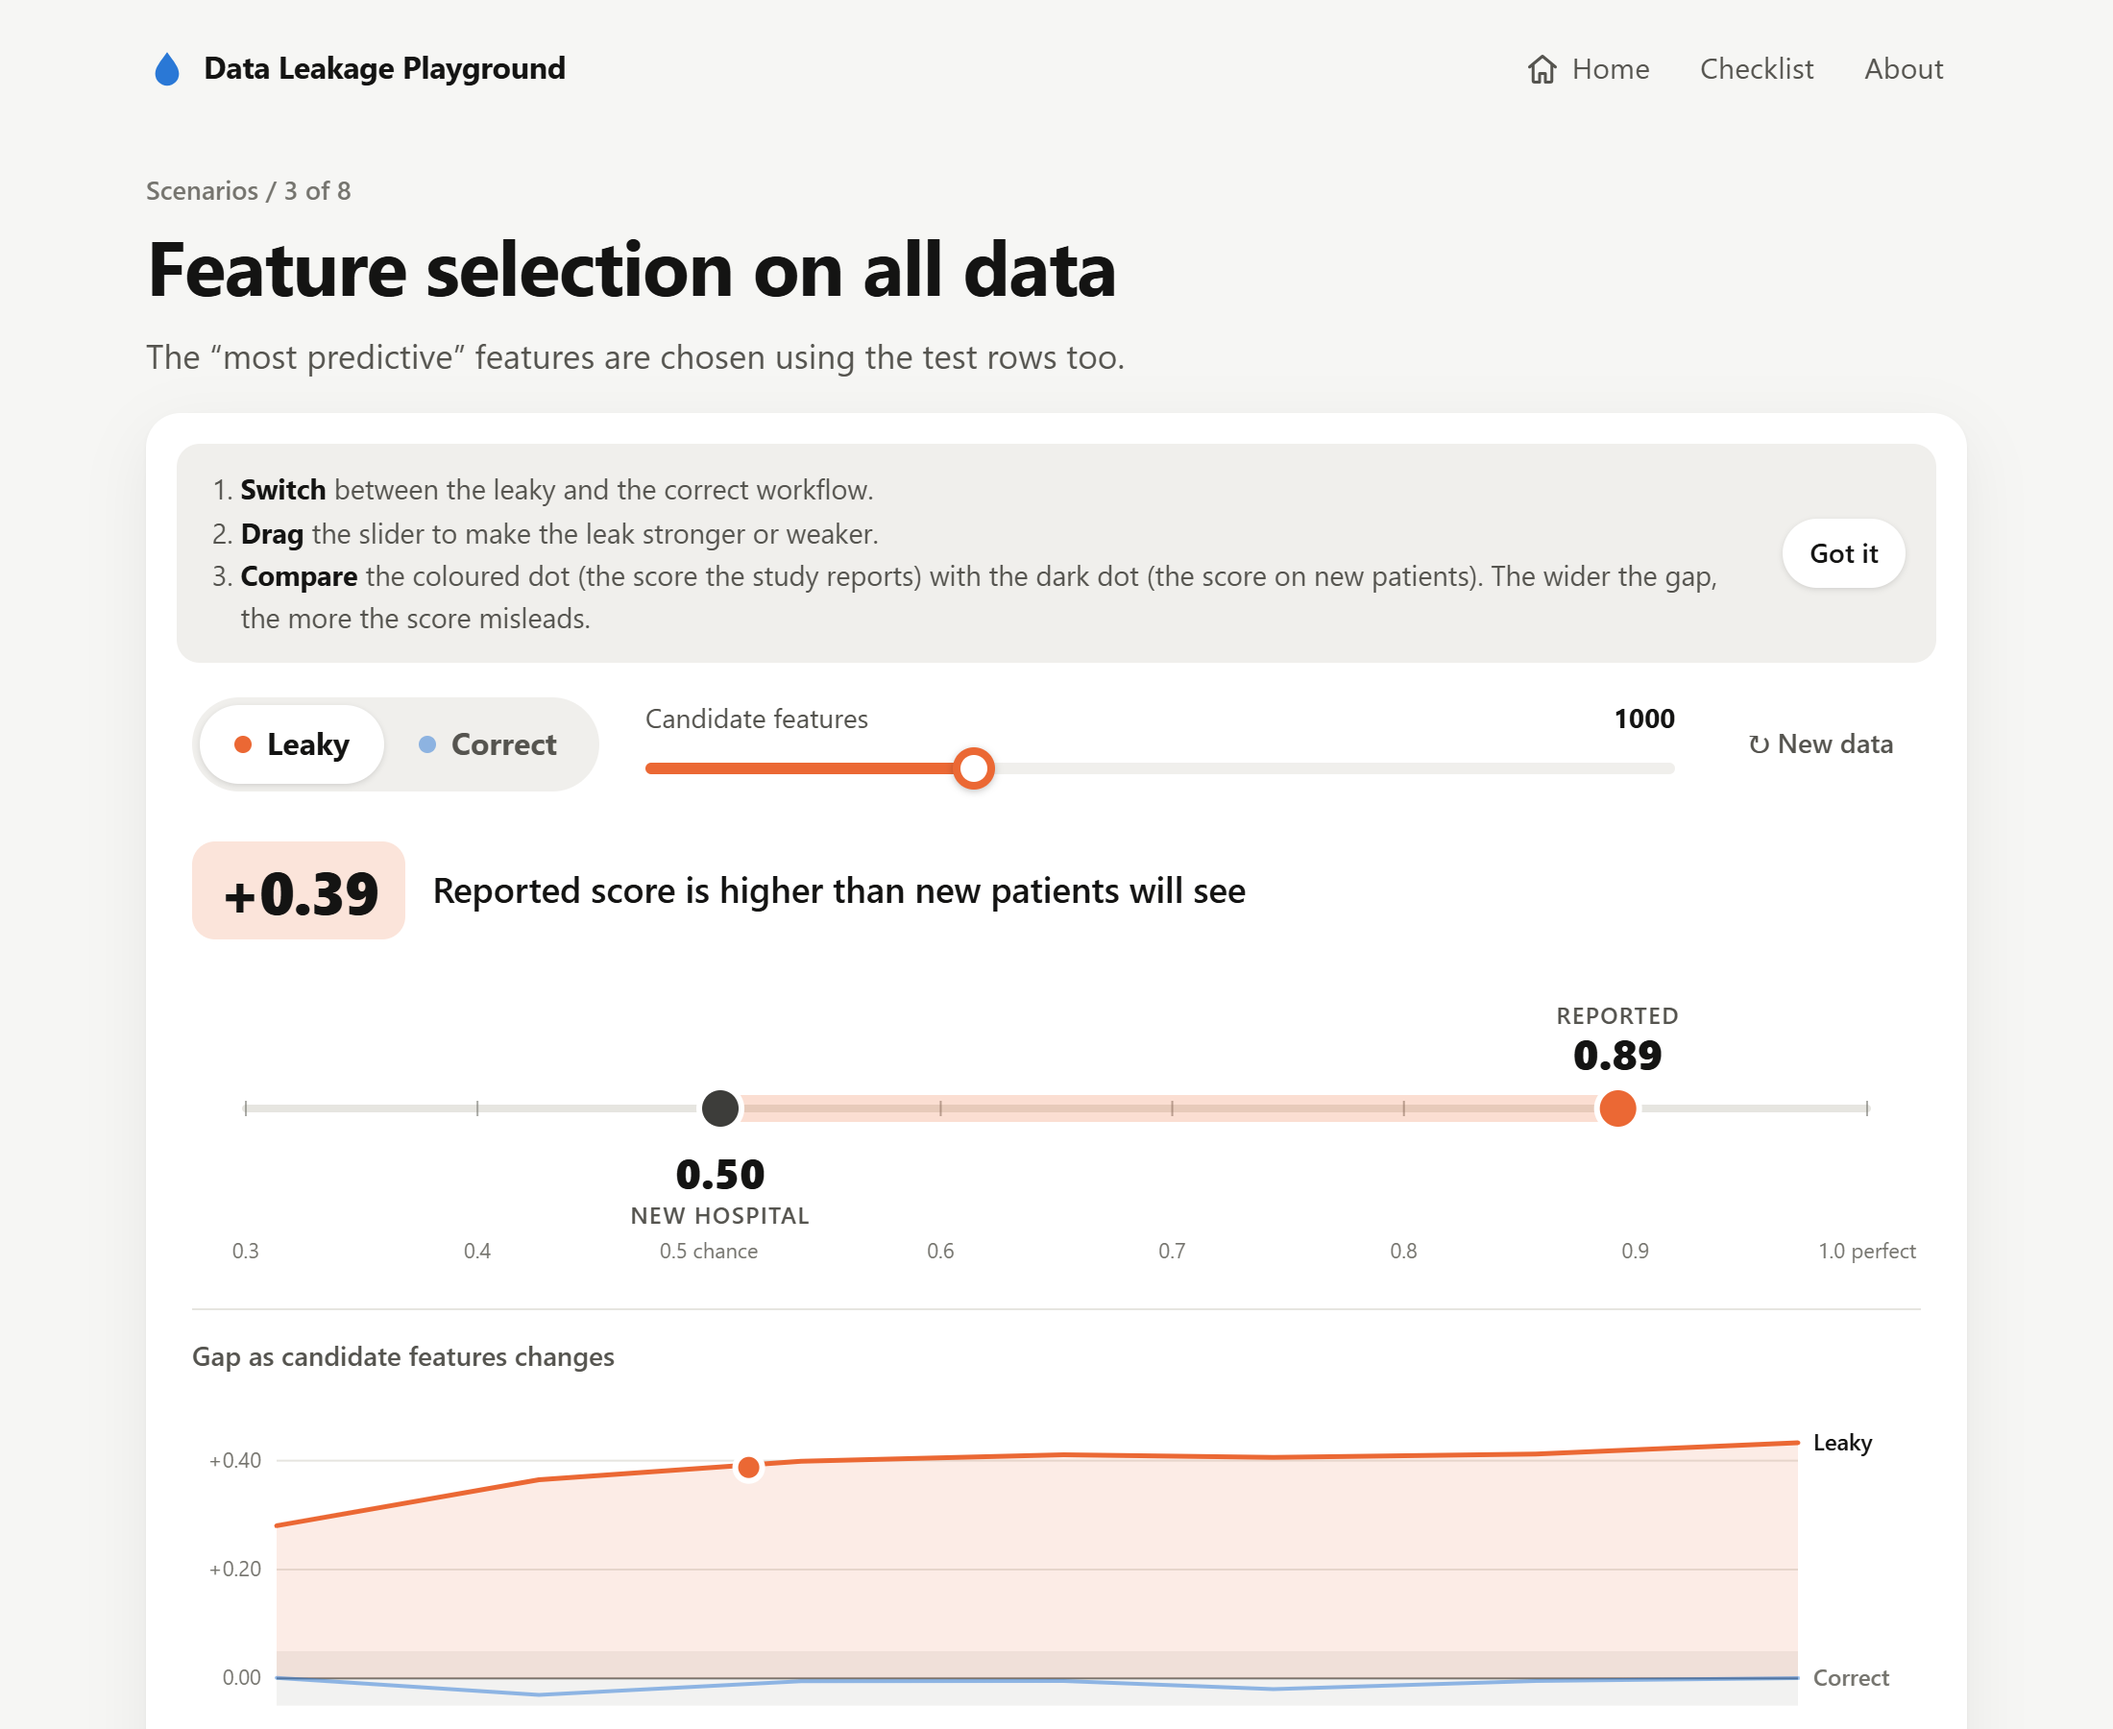
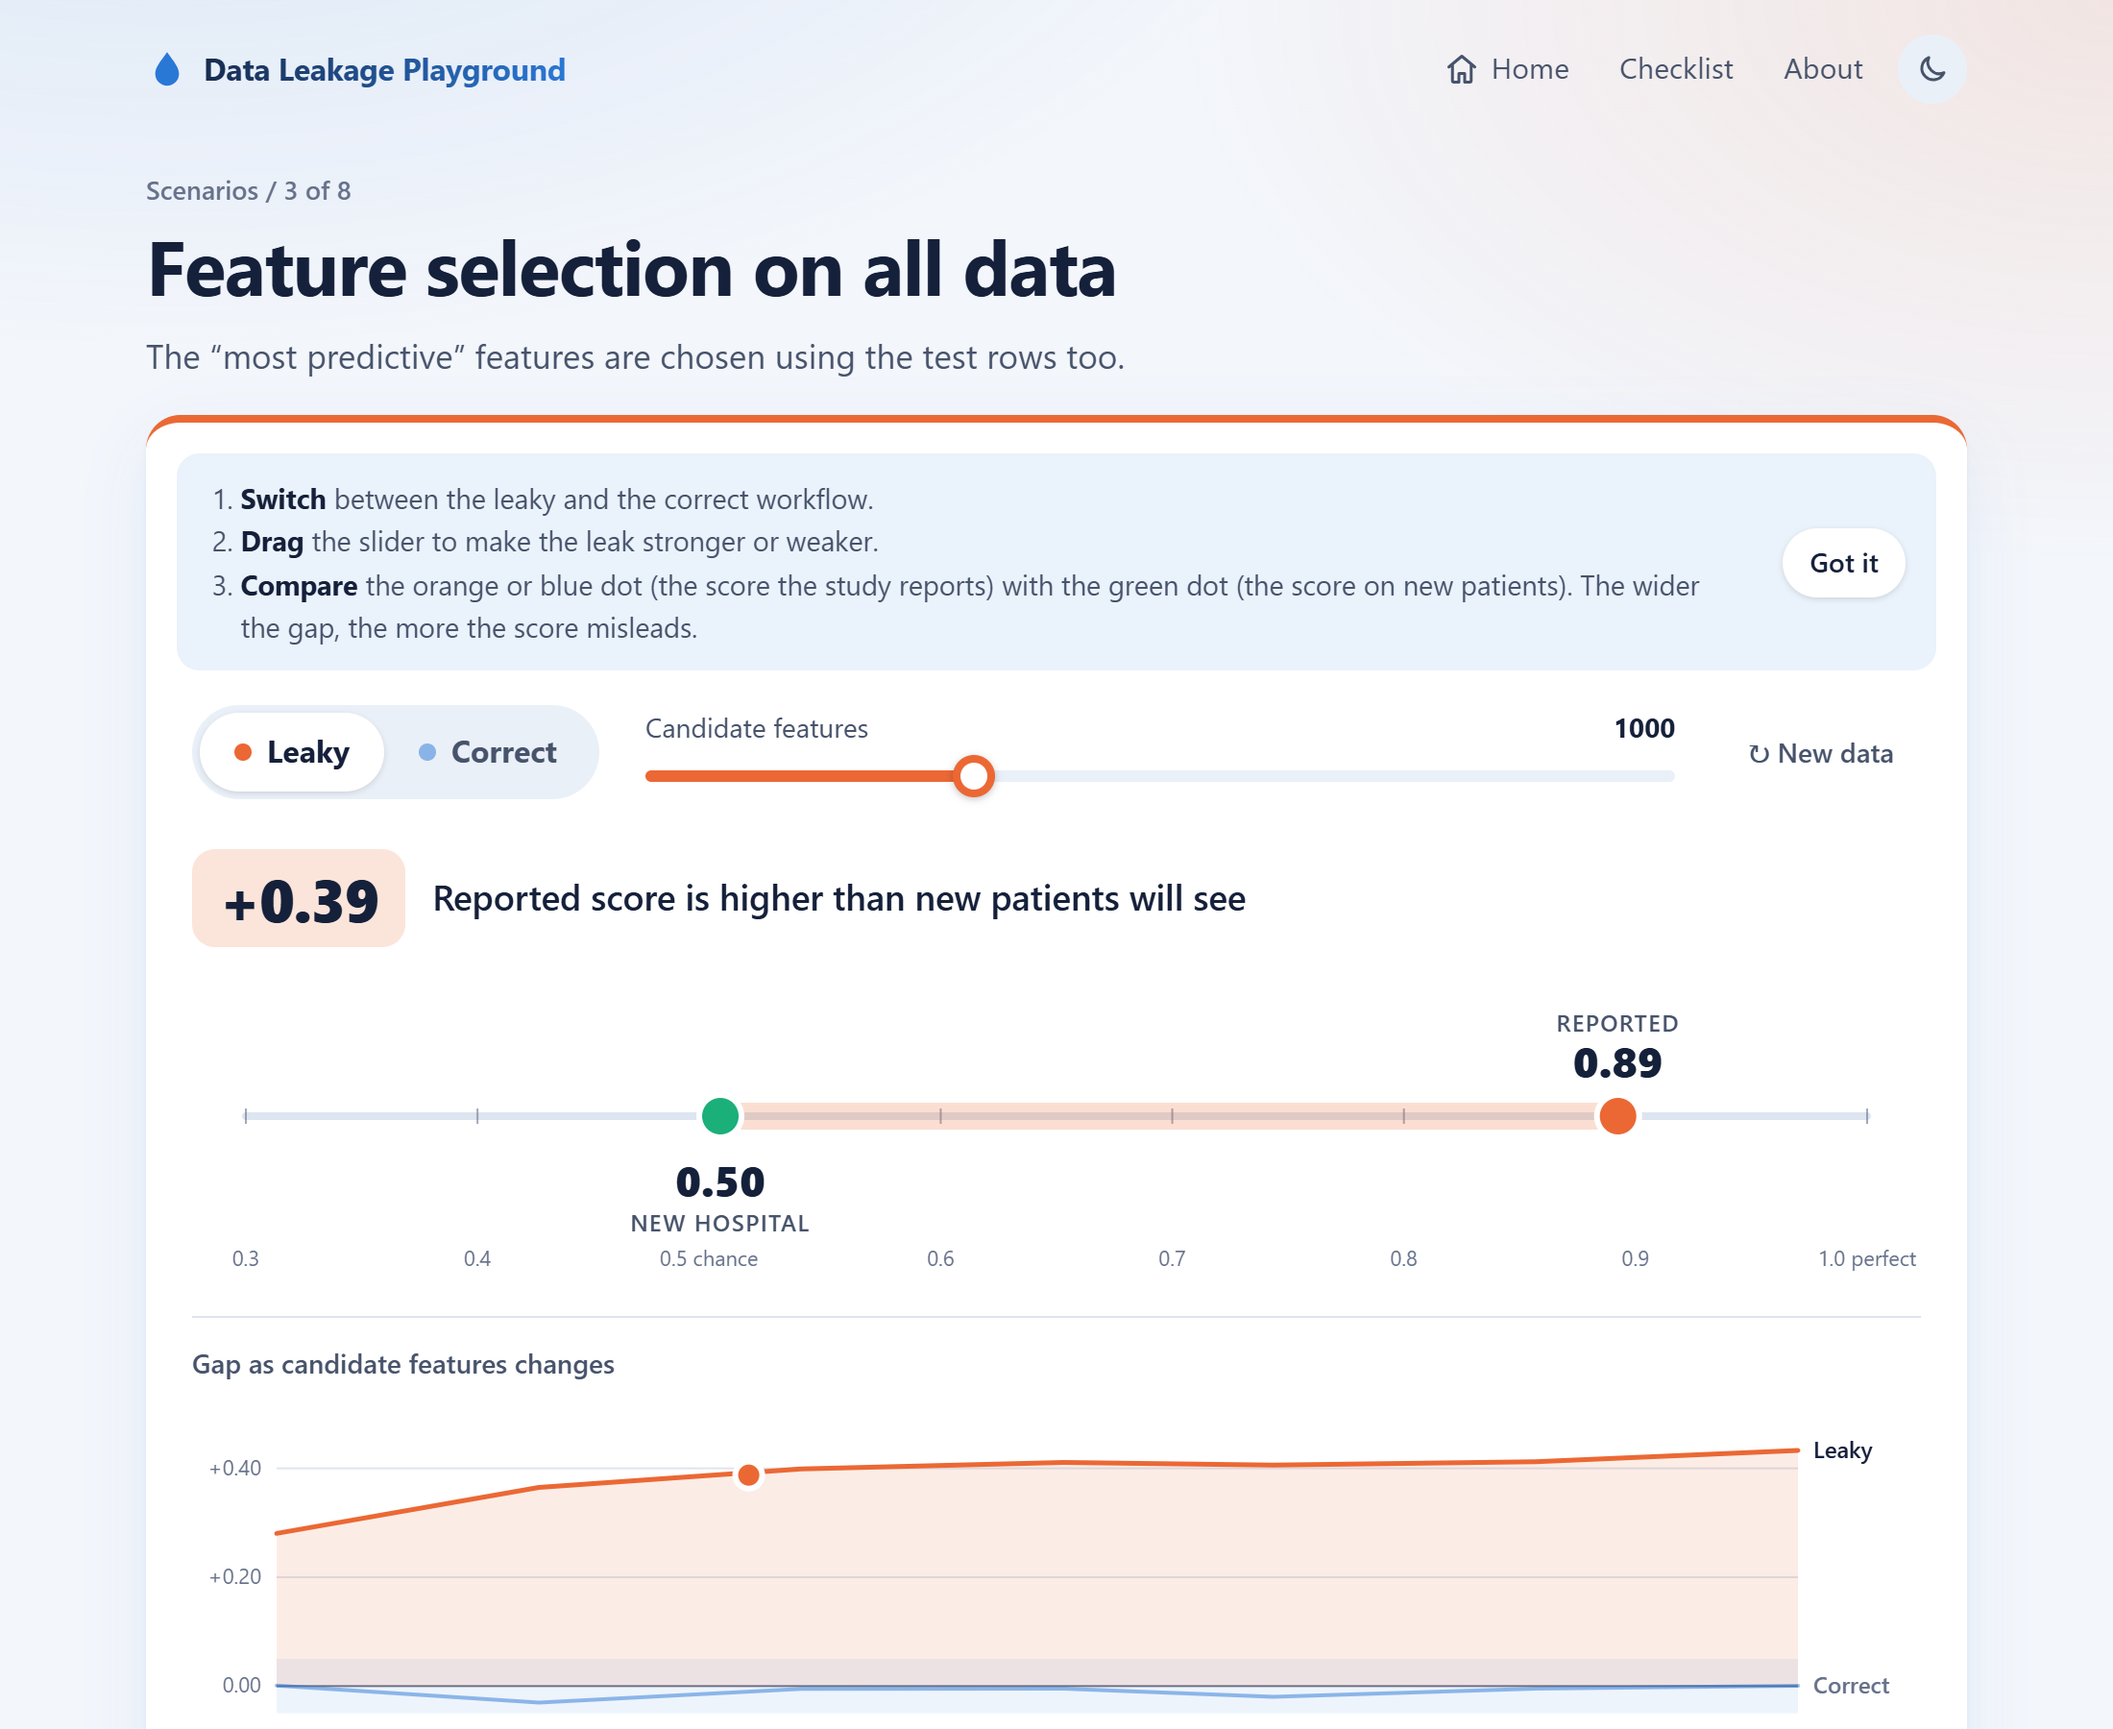
Colourful light theme by default, opt-in dark theme
Light blue-tinted background with soft colour glows, a teal new-hospital
dot (categorical slot 3, validated all-pairs with blue and orange),
gradient call-to-action, coloured step numbers, card badges and a
mode-coloured edge on the main panel. Dark theme is now navy rather than
black and opt-in through a header toggle, remembered in localStorage.

diff --git a/src/styles.css b/src/styles.css
@@ -1,44 +1,50 @@
 :root {
   color-scheme: light;
-  --bg: #f6f6f4;
+  --bg: #f3f6fb;
   --surface: #ffffff;
-  --surface-2: #f0efec;
-  --line: #e6e5e0;
-  --ink: #141413;
-  --ink-2: #55544f;
-  --ink-3: #75746e;
-  /* Series colours (categorical slots 1 and 2, validated as an adjacent pair). */
+  --surface-2: #eaf0f8;
+  --line: #dde5f0;
+  --ink: #15203a;
+  --ink-2: #47536b;
+  --ink-3: #66718a;
+  /* Series colours: categorical slots 1-3 (blue, orange, aqua), validated all-pairs. */
   --correct: #2a78d6;
   --leaky: #eb6834;
-  --new: #3d3d3a;
-  --noise-band: rgba(85, 84, 79, 0.08);
+  --new: #1baf7a;
+  --violet: #6250d6;
+  --noise-band: rgba(42, 120, 214, 0.08);
   --focus: #2a78d6;
-  --code-bg: #f8f8f6;
-  --shadow: 0 1px 2px rgba(20, 20, 19, 0.04), 0 10px 32px rgba(20, 20, 19, 0.06);
+  --code-bg: #f7f9fc;
+  --shadow: 0 1px 2px rgba(21, 32, 58, 0.05), 0 12px 32px rgba(42, 120, 214, 0.08);
+  --glow-1: rgba(42, 120, 214, 0.14);
+  --glow-2: rgba(235, 104, 52, 0.12);
+  --glow-3: rgba(27, 175, 122, 0.12);
   --radius: 18px;
   --font: system-ui, -apple-system, 'Segoe UI', Roboto, 'Helvetica Neue', Arial, 'Noto Sans',
     sans-serif;
   --mono: ui-monospace, SFMono-Regular, Menlo, Consolas, 'Liberation Mono', monospace;
 }
 
-@media (prefers-color-scheme: dark) {
-  :root {
-    color-scheme: dark;
-    --bg: #121211;
-    --surface: #1c1c1b;
-    --surface-2: #262624;
-    --line: #2e2e2c;
-    --ink: #f0efec;
-    --ink-2: #c3c2b7;
-    --ink-3: #9a998f;
-    --correct: #3987e5;
-    --leaky: #d95926;
-    --new: #d9d8d2;
-    --noise-band: rgba(240, 239, 236, 0.07);
-    --focus: #6da7ec;
-    --code-bg: #181817;
-    --shadow: 0 1px 2px rgba(0, 0, 0, 0.3), 0 10px 32px rgba(0, 0, 0, 0.25);
-  }
+:root[data-theme='dark'] {
+  color-scheme: dark;
+  --bg: #0f1730;
+  --surface: #18223f;
+  --surface-2: #222e52;
+  --line: #2d3a61;
+  --ink: #eef2fb;
+  --ink-2: #bcc6dc;
+  --ink-3: #8f9bb8;
+  --correct: #3987e5;
+  --leaky: #d95926;
+  --new: #199e70;
+  --violet: #9085e9;
+  --noise-band: rgba(144, 170, 230, 0.1);
+  --focus: #6da7ec;
+  --code-bg: #141d38;
+  --shadow: 0 1px 2px rgba(0, 0, 0, 0.25), 0 12px 32px rgba(0, 0, 0, 0.25);
+  --glow-1: rgba(57, 135, 229, 0.22);
+  --glow-2: rgba(217, 89, 38, 0.16);
+  --glow-3: rgba(25, 158, 112, 0.16);
 }
 
 *,
@@ -53,7 +59,9 @@ html {
 
 body {
   margin: 0;
-  background: var(--bg);
+  background: radial-gradient(900px 500px at 8% -10%, var(--glow-1), transparent 70%),
+    radial-gradient(700px 420px at 100% 0%, var(--glow-2), transparent 70%),
+    radial-gradient(800px 500px at 50% 110%, var(--glow-3), transparent 70%), var(--bg);
   color: var(--ink);
   font-family: var(--font);
   font-size: 16px;
@@ -255,8 +263,9 @@ textarea {
 .cta {
   display: inline-block;
   font-weight: 700;
-  color: var(--surface);
-  background: var(--ink);
+  color: #fff;
+  background: linear-gradient(135deg, #2a78d6, #6250d6);
+  box-shadow: 0 6px 18px rgba(42, 120, 214, 0.3);
   padding: 12px 20px;
   border-radius: 999px;
   text-decoration: none;
@@ -291,6 +300,9 @@ textarea {
 
 .card:hover {
   transform: translateY(-2px);
+  box-shadow:
+    0 0 0 2px color-mix(in srgb, var(--correct) 45%, transparent),
+    var(--shadow);
 }
 
 .card-top {
@@ -300,9 +312,15 @@ textarea {
 }
 
 .card-number {
+  display: inline-grid;
+  place-items: center;
+  width: 26px;
+  height: 26px;
+  border-radius: 50%;
   font-size: 0.8rem;
-  font-weight: 700;
-  color: var(--ink-3);
+  font-weight: 800;
+  color: var(--ink);
+  background: color-mix(in srgb, var(--correct) 16%, transparent);
 }
 
 .card-gap {
@@ -316,7 +334,7 @@ textarea {
 }
 
 .card-gap-ok {
-  background: var(--surface-2);
+  background: color-mix(in srgb, var(--new) 18%, transparent);
 }
 
 .card-title {
@@ -383,6 +401,8 @@ textarea {
 
 .stage {
   --mode: var(--leaky);
+  border-top: 4px solid var(--mode);
+  transition: border-color 0.3s;
   background: var(--surface);
   border-radius: var(--radius);
   box-shadow: var(--shadow);
@@ -544,7 +564,7 @@ textarea {
 }
 
 .gap-ok {
-  background: color-mix(in srgb, var(--correct) 14%, transparent);
+  background: color-mix(in srgb, var(--new) 18%, transparent);
 }
 
 .scale {
@@ -772,7 +792,7 @@ textarea {
 
 .tab[aria-selected='true'] {
   color: var(--ink);
-  border-bottom-color: var(--ink);
+  border-bottom-color: var(--correct);
 }
 
 .tab-panel {
@@ -1153,7 +1173,10 @@ textarea {
   font-weight: 700;
   letter-spacing: 0.04em;
   text-transform: uppercase;
-  color: var(--leaky);
+  background: linear-gradient(90deg, var(--leaky), var(--violet));
+  -webkit-background-clip: text;
+  background-clip: text;
+  color: transparent;
 }
 
 .hero-actions {
@@ -1258,8 +1281,8 @@ button.cta {
   width: 32px;
   height: 32px;
   border-radius: 50%;
-  background: var(--ink);
-  color: var(--surface);
+  background: var(--correct);
+  color: #fff;
   font-weight: 800;
 }
 
@@ -1341,4 +1364,60 @@ button.cta {
 .reading-tip .button {
   background: var(--surface);
   box-shadow: 0 1px 3px rgba(0, 0, 0, 0.12);
+}
+
+/* Colour accents */
+
+.steps li:nth-child(2) .step-number {
+  background: var(--leaky);
+}
+
+.steps li:nth-child(3) .step-number {
+  background: var(--new);
+}
+
+.steps li {
+  border-top: 3px solid var(--correct);
+}
+
+.steps li:nth-child(2) {
+  border-top-color: var(--leaky);
+}
+
+.steps li:nth-child(3) {
+  border-top-color: var(--new);
+}
+
+.brand {
+  background: linear-gradient(90deg, var(--ink), var(--correct));
+  -webkit-text-fill-color: transparent;
+  -webkit-background-clip: text;
+  background-clip: text;
+}
+
+.reading-tip {
+  background: color-mix(in srgb, var(--correct) 10%, var(--surface));
+}
+
+.hero-real {
+  color: var(--new);
+}
+
+/* Theme toggle */
+
+.theme-toggle {
+  display: inline-grid;
+  place-items: center;
+  width: 36px;
+  height: 36px;
+  margin-left: 4px;
+  border: 0;
+  border-radius: 50%;
+  background: var(--surface-2);
+  color: var(--ink-2);
+  cursor: pointer;
+}
+
+.theme-toggle:hover {
+  color: var(--ink);
 }

diff --git a/src/components/ThemeToggle.tsx b/src/components/ThemeToggle.tsx
@@ -1,0 +1,46 @@
+import { useState } from 'react';
+
+const KEY = 'dlp-theme';
+
+/** Light is the default; dark is opt-in and remembered in this browser only. */
+export function ThemeToggle() {
+  const [dark, setDark] = useState(() => document.documentElement.dataset.theme === 'dark');
+  const toggle = () => {
+    const next = !dark;
+    setDark(next);
+    if (next) document.documentElement.dataset.theme = 'dark';
+    else delete document.documentElement.dataset.theme;
+    try {
+      window.localStorage.setItem(KEY, next ? 'dark' : 'light');
+    } catch {
+      // Storage may be unavailable; the choice then lasts for this page view.
+    }
+  };
+  return (
+    <button
+      type="button"
+      className="theme-toggle"
+      onClick={toggle}
+      aria-pressed={dark}
+      aria-label="Dark theme"
+      title={dark ? 'Switch to light theme' : 'Switch to dark theme'}
+    >
+      <svg width="18" height="18" viewBox="0 0 24 24" aria-hidden="true">
+        {dark ? (
+          <g fill="none" stroke="currentColor" strokeWidth="2" strokeLinecap="round">
+            <circle cx="12" cy="12" r="4.5" />
+            <path d="M12 2v2M12 20v2M4.9 4.9l1.4 1.4M17.7 17.7l1.4 1.4M2 12h2M20 12h2M4.9 19.1l1.4-1.4M17.7 6.3l1.4-1.4" />
+          </g>
+        ) : (
+          <path
+            d="M20 14.5A8 8 0 0 1 9.5 4a8 8 0 1 0 10.5 10.5z"
+            fill="none"
+            stroke="currentColor"
+            strokeWidth="2"
+            strokeLinejoin="round"
+          />
+        )}
+      </svg>
+    </button>
+  );
+}

diff --git a/index.html b/index.html
@@ -8,9 +8,8 @@
       name="description"
       content="Switch a machine learning data leak on and off, watch the reported score inflate, and see what a new hospital would really get. Eight interactive scenarios with scikit-learn code."
     />
-    <meta name="color-scheme" content="light dark" />
-    <meta name="theme-color" content="#fcfcfb" media="(prefers-color-scheme: light)" />
-    <meta name="theme-color" content="#1a1a19" media="(prefers-color-scheme: dark)" />
+    <meta name="color-scheme" content="light" />
+    <meta name="theme-color" content="#f3f6fb" />
     <meta property="og:title" content="Data Leakage Playground" />
     <meta
       property="og:description"
@@ -18,6 +17,13 @@
     />
     <meta property="og:type" content="website" />
     <link rel="icon" type="image/svg+xml" href="./favicon.svg" />
+    <script>
+      // Light by default; dark only if the visitor chose it before (no flash on load).
+      try {
+        if (localStorage.getItem('dlp-theme') === 'dark')
+          document.documentElement.dataset.theme = 'dark';
+      } catch (e) {}
+    </script>
   </head>
   <body>
     <div id="root"></div>

diff --git a/src/components/ReadingTip.tsx b/src/components/ReadingTip.tsx
@@ -32,8 +32,8 @@ export function ReadingTip() {
           <strong>Drag</strong> the slider to make the leak stronger or weaker.
         </li>
         <li>
-          <strong>Compare</strong> the coloured dot (the score the study reports) with the dark dot
-          (the score on new patients). The wider the gap, the more the score misleads.
+          <strong>Compare</strong> the orange or blue dot (the score the study reports) with the
+          green dot (the score on new patients). The wider the gap, the more the score misleads.
         </li>
       </ol>
       <button type="button" className="button" onClick={close}>

diff --git a/src/App.tsx b/src/App.tsx
@@ -1,5 +1,6 @@
 import { useEffect } from 'react';
 import { About } from './pages/About';
+import { ThemeToggle } from './components/ThemeToggle';
 import { Checklist } from './pages/Checklist';
 import { Home } from './pages/Home';
 import { ScenarioPage } from './pages/Scenario';
@@ -83,6 +84,7 @@ export function App() {
           <a href="#/about" aria-current={route.page === 'about' ? 'page' : undefined}>
             About
           </a>
+          <ThemeToggle />
         </nav>
       </header>
       <main id="main" tabIndex={-1}>

diff --git a/src/pages/Home.tsx b/src/pages/Home.tsx
@@ -16,7 +16,7 @@ const STEPS = [
   },
   {
     title: 'Watch the gap',
-    text: 'Orange is the score the analysis would publish. Dark is what the model really scores on new patients.',
+    text: 'Orange is the score the analysis would publish. Green is what the model really scores on new patients.',
   },
 ];
 

diff --git a/README.md b/README.md
@@ -19,7 +19,7 @@ Data leakage happens when information from the test data slips into training, so
 - **Printable checklist** of eight checks.
 - **Honest effects.** The simulations are tuned for realistic settings, not for drama. Preprocessing on all data, for example, leaks very little here, and the page says so.
 - **Static and private.** No backend, cookies, analytics or external requests. Data is synthetic and generated with a seeded PRNG, so results are identical for everyone.
-- Light and dark themes from the system setting, keyboard accessible, readable at 360 px wide.
+- Colourful light theme by default with an opt-in dark theme (remembered in the browser), keyboard accessible, readable at 360 px wide.
 
 Default results (seed 42, ROC AUC):
 
